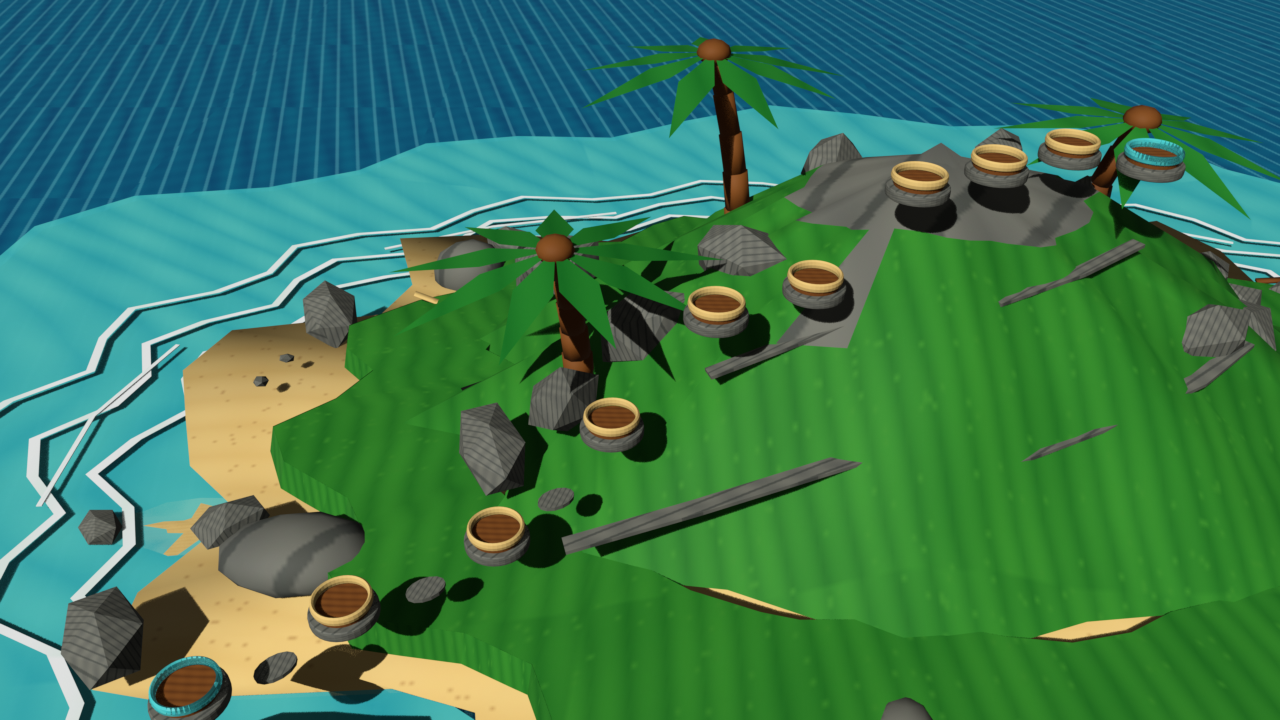
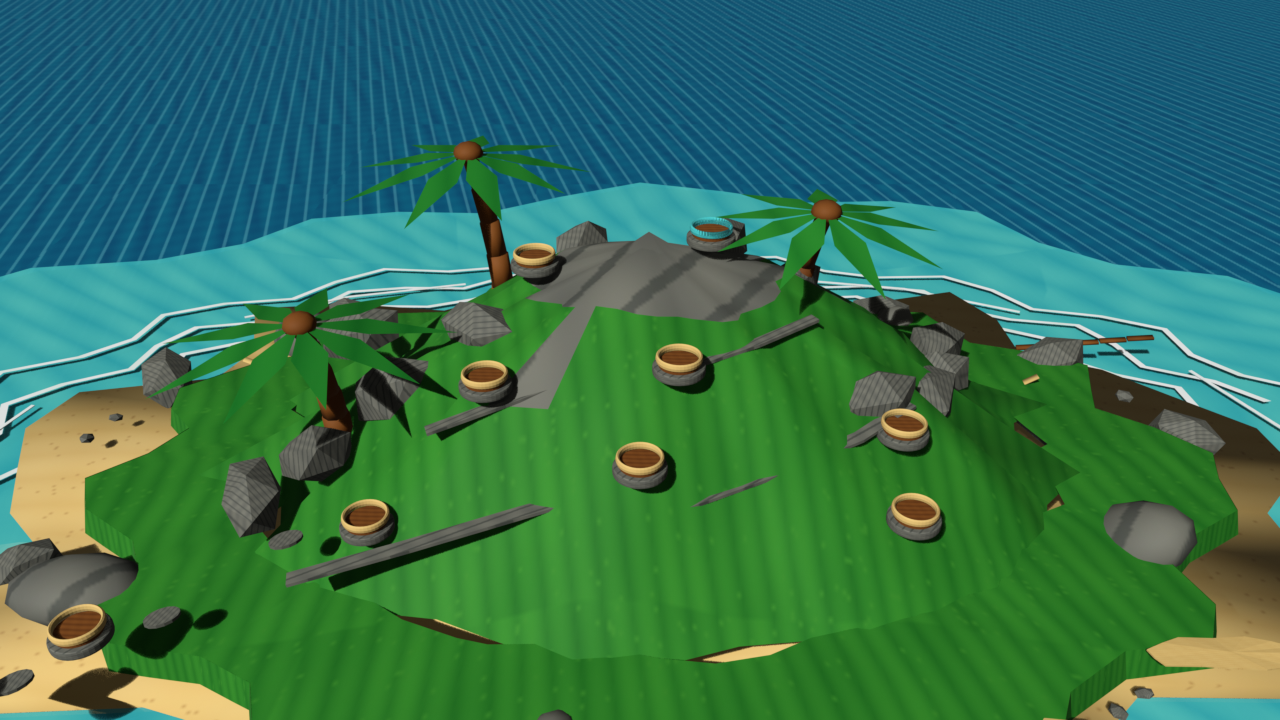
s

diff --git a/_raise_stage_select1_portals.py b/_raise_stage_select1_portals.py
@@ -7,16 +7,35 @@ model_dir = os.path.dirname(bpy.data.filepath)
 island_export_path = os.path.join(model_dir, "stageSelectIsland.x")
 sea_export_path = os.path.join(model_dir, "stageSelectSea.x")
 preview_path = os.path.join(model_dir, "world1_preview.png")
+bpy.context.preferences.filepaths.save_version = 0
 
-portal_ground_heights = [0.8, 0.7, 0.9, 2.6, 4.8, 4.9, 6.8, 6.8, 6.8, 7.1]
-for index, ground_height in enumerate(portal_ground_heights):
+portal_layout = [
+    (-15.0, -11.5, 0.8),
+    (-12.8, -9.4, 0.7),
+    (-7.0, -6.0, 1.1),
+    (0.0, -6.0, 2.9),
+    (7.0, -6.0, 1.3),
+    (7.0, -4.0, 2.6),
+    (1.0, -4.0, 4.6),
+    (-4.0, -4.0, 4.1),
+    (-3.0, 0.0, 5.7),
+    (2.0, 0.0, 6.5),
+]
+for index, portal_position in enumerate(portal_layout):
+    position_x, position_y, ground_height = portal_position
     prefix = f"RF1_Portal_{index:02d}"
     base = bpy.data.objects[f"{prefix}_Base"]
     inset = bpy.data.objects[f"{prefix}_Inset"]
     ring = bpy.data.objects[f"{prefix}_Ring"]
 
+    base.location.x = position_x
+    base.location.y = position_y
     base.location.z = ground_height + 0.45
+    inset.location.x = position_x
+    inset.location.y = position_y
     inset.location.z = ground_height + 0.625
+    ring.location.x = position_x
+    ring.location.y = position_y
     ring.location.z = ground_height + 0.77
 
     base.scale.x = 0.5
@@ -31,8 +50,8 @@ for material in bpy.data.materials:
 
 preview_camera = bpy.context.scene.camera
 if preview_camera is not None:
-    preview_camera.location = Vector((-7.0, -23.0, 16.0))
-    preview_target = Vector((-7.0, -4.0, 3.5))
+    preview_camera.location = Vector((0.0, -26.0, 18.0))
+    preview_target = Vector((0.0, 0.0, 3.0))
     preview_camera.rotation_euler = (preview_target - preview_camera.location).to_track_quat("-Z", "Y").to_euler()
     preview_camera.data.lens = 28.0
 
@@ -88,5 +107,5 @@ export_objects(sea_export_path, sea_object_names)
 bpy.context.scene.render.filepath = preview_path
 bpy.ops.render.render(write_still=True)
 
-print("Raised portals:", len(portal_ground_heights))
+print("Arranged portals:", len(portal_layout))
 print("Preview camera:", tuple(preview_camera.location) if preview_camera is not None else None)

diff --git a/RedFortress2/MultiPassRendering/StageManager.cpp b/RedFortress2/MultiPassRendering/StageManager.cpp
@@ -59,8 +59,8 @@ void StageManager::Initialize()
 
     AddStage(L"base", 33, L"拠点", L"base", D3DXVECTOR3(0.0f, 0.2f, -28.0f), D3DXVECTOR3(0.0f, 1.0f, 28.0f));
 
-    const D3DXVECTOR3 kSelect1CameraPos(-7.0f, 16.0f, -23.0f);
-    const D3DXVECTOR3 kSelect1CameraLookAt(-7.0f, 3.5f, -4.0f);
+    const D3DXVECTOR3 kSelect1CameraPos(0.0f, 18.0f, -26.0f);
+    const D3DXVECTOR3 kSelect1CameraLookAt(0.0f, 3.0f, 0.0f);
     const D3DXVECTOR3 kSelect2CameraPos(0.0f, 15.0f, -32.0f);
     const D3DXVECTOR3 kSelect2CameraLookAt(0.0f, 0.8f, 5.5f);
     const D3DXVECTOR3 kSelect3CameraPos(0.0f, 23.0f, -38.0f);